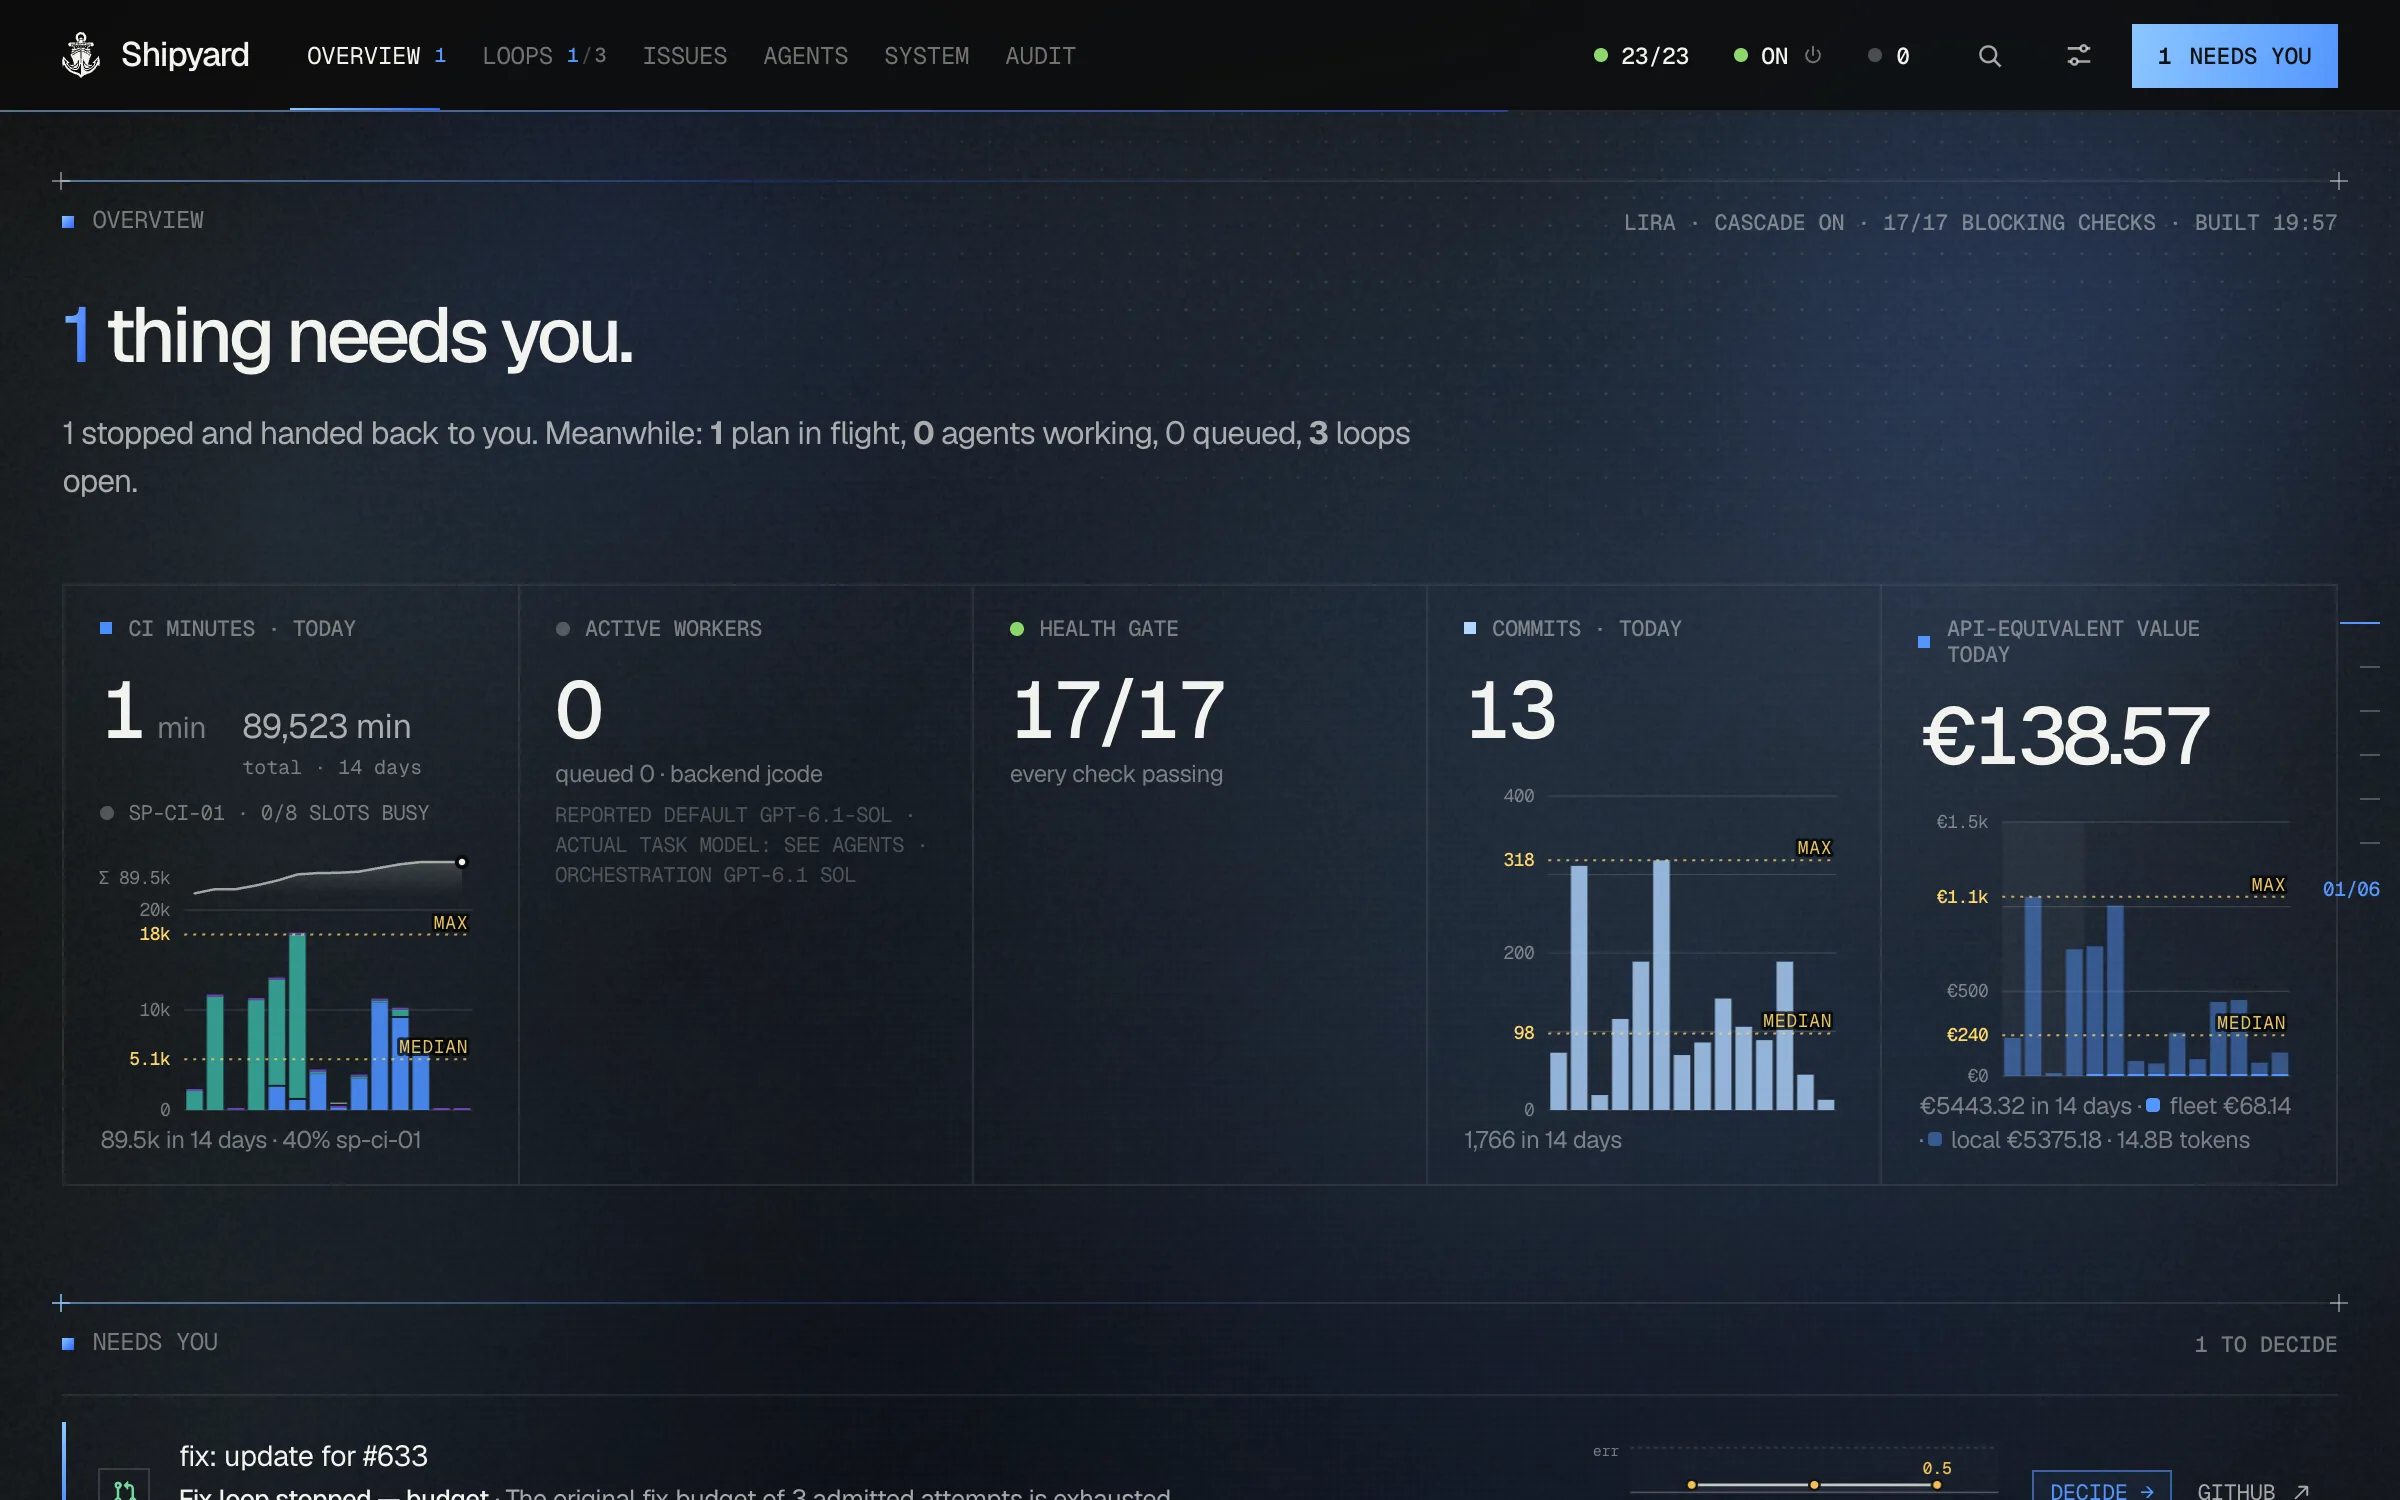
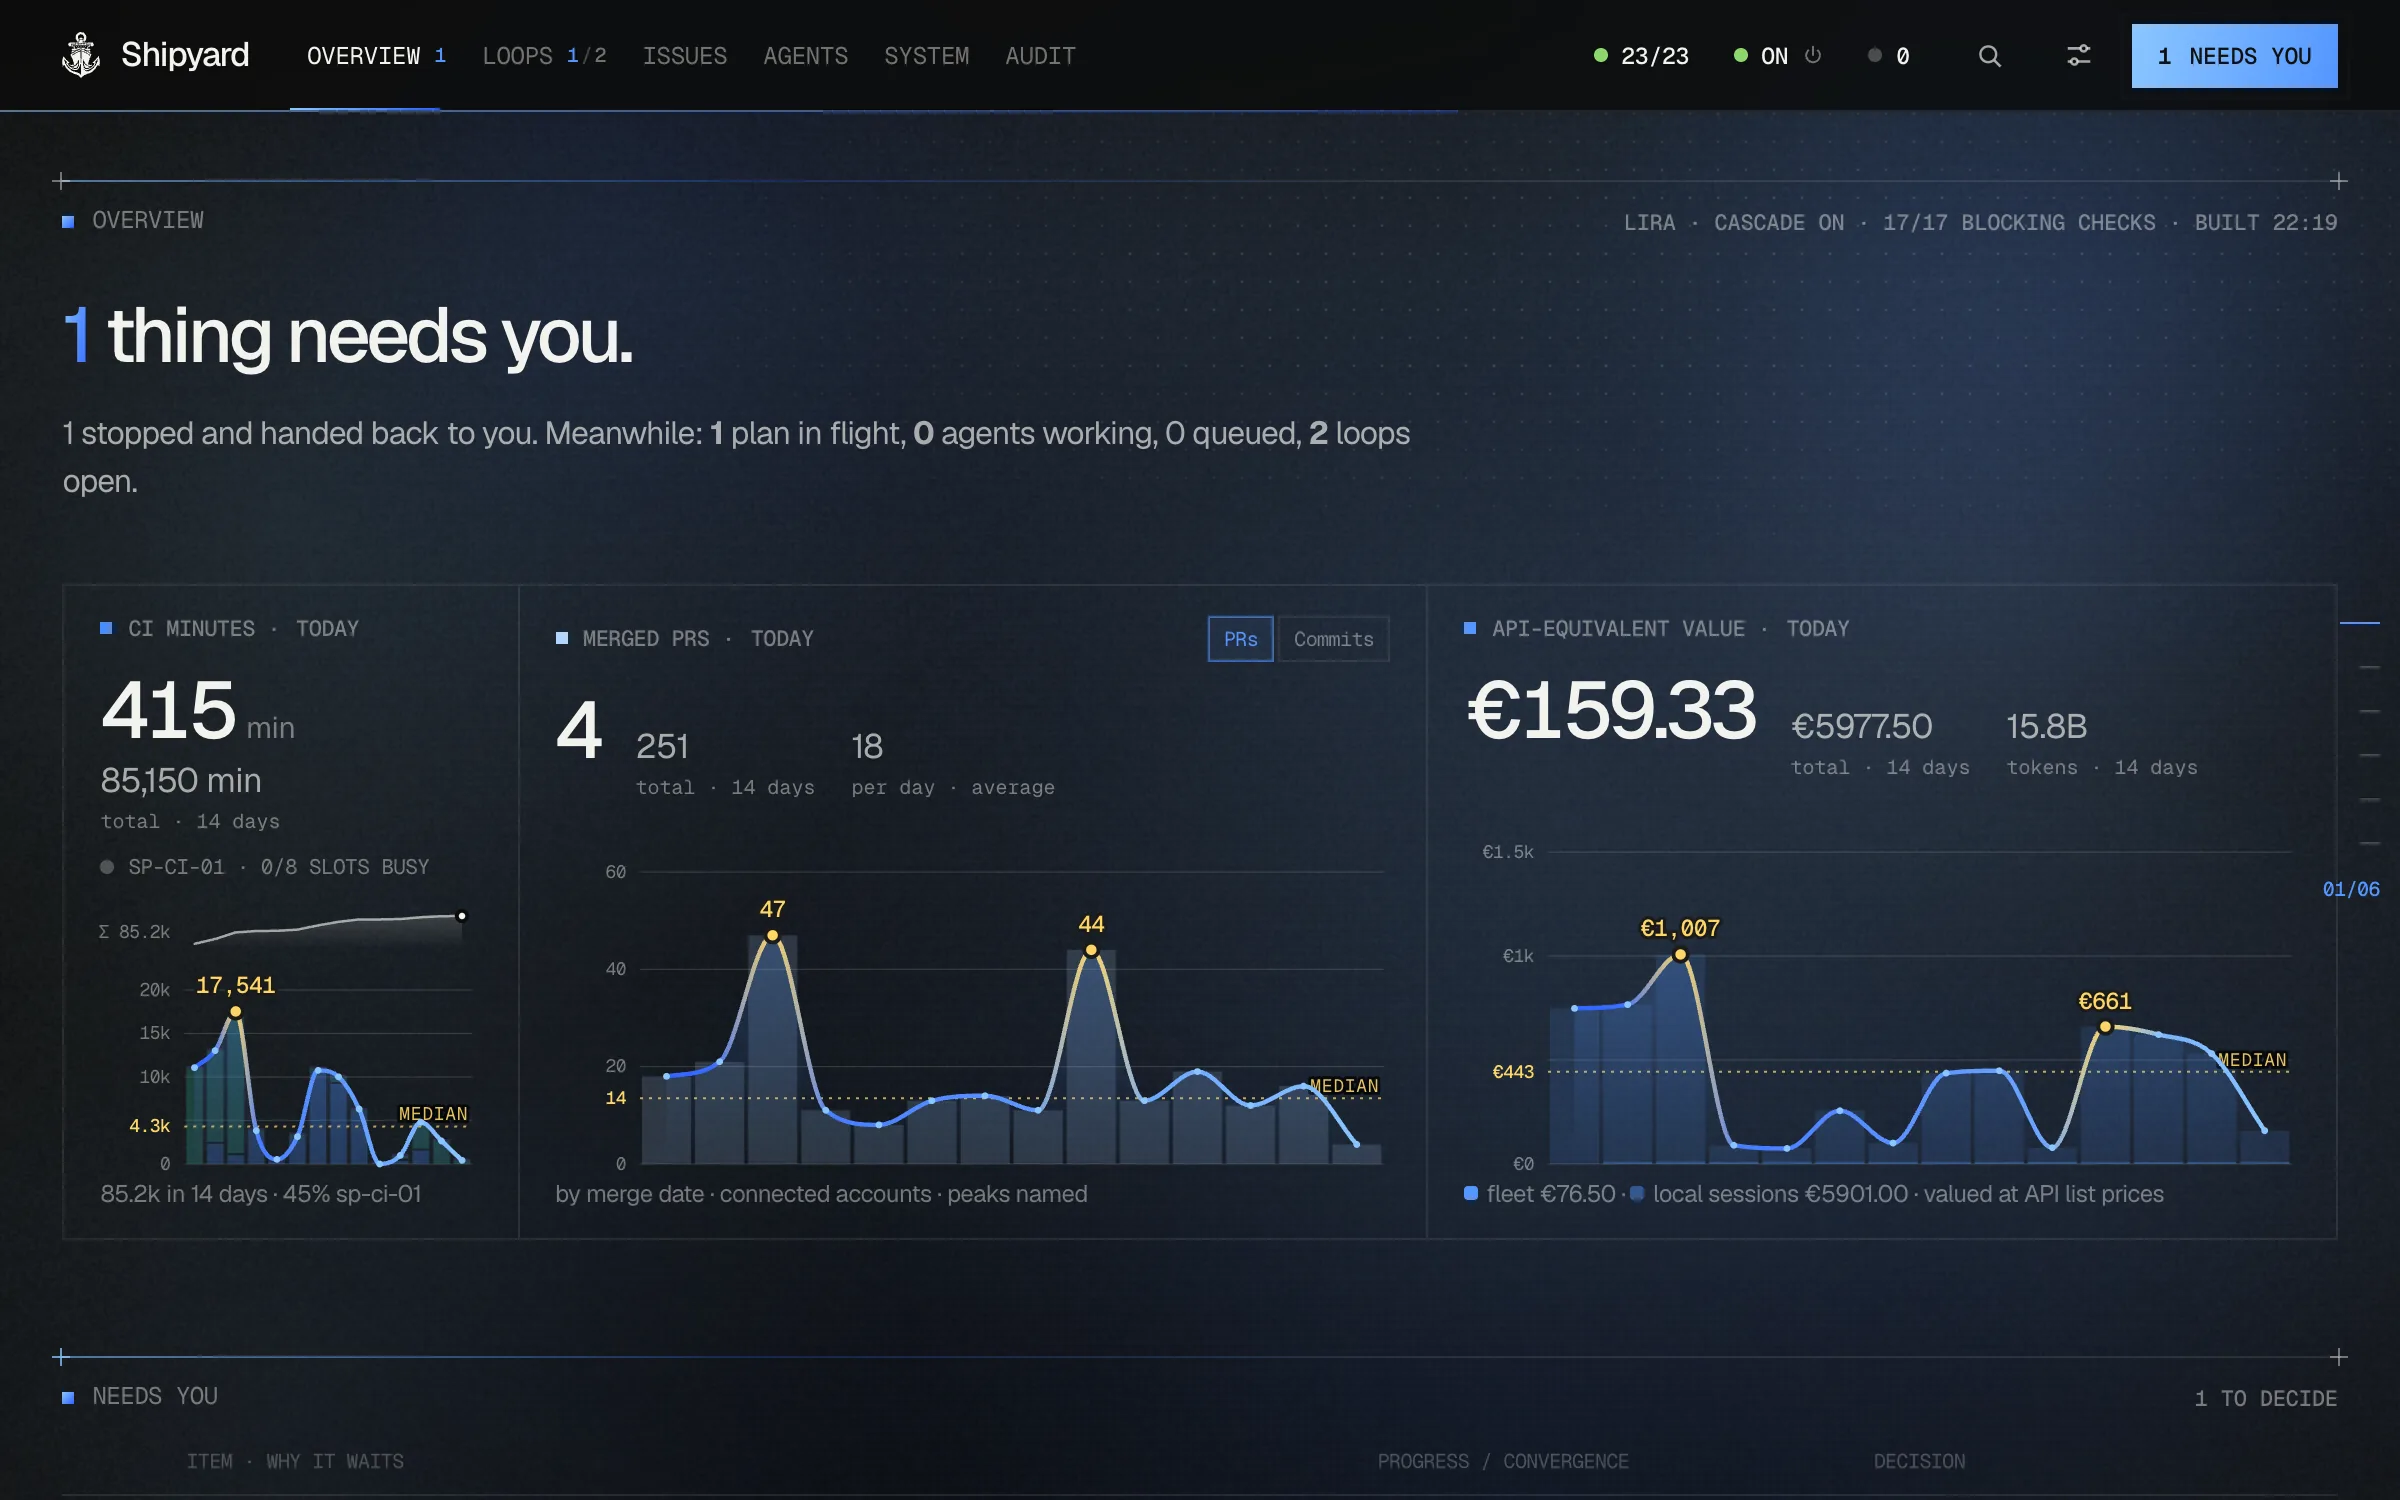
Refresh Shipyard screenshots from today's Mission Control
Captured 2026-10-19 from the live console at 2x through Shipyard's
read-only preview (POSTs refused), filtered to shipyard, marcmantei.com
and myceliums. Adds the cascade, loops and health-gate views; the
flight recorder now shows shipyard#721 converging, and the decision
brief includes its three options. Drops the case-grading shot.

diff --git a/README.md b/README.md
@@ -26,9 +26,13 @@ More than ten years of workflow automation, from Netflix's virtual production st
 
 AI agents write code fast, but unattended output is hard to trust. Shipyard turns an approved plan into merged software: independent AI workers build, review and fix each issue, wave by wave. Every automated decision runs inside a closed control loop with a measured signal, a hard cap and an escalation path to a human. In production since May 2026.
 
-![Shipyard Mission Control overview: "1 thing needs you", with 14-day charts for CI minutes, commits and API-equivalent value](assets/shipyard-overview.webp)
+![Shipyard Mission Control overview: "1 thing needs you", with 14-day curves for CI minutes, merged PRs and API-equivalent value](assets/shipyard-overview.webp)
 
-*Mission Control, live: the fleet in one sentence, only what needs a person on top, and 14 days of CI minutes, commits and API-equivalent value.*
+*Mission Control, live: the fleet in one sentence, only what needs a person on top, and 14 days of CI minutes, merged PRs and API-equivalent value.*
+
+![A cascade in Mission Control: shipyard#735 shipped wave by wave, each wave with its pull request, cost and state](assets/shipyard-cascade.webp)
+
+*A plan becomes waves of issues. A wave ships before the next one starts: two waves merged, the third in the review loop.*
 
 Shipyard opened **267 pull requests** on its own across 10 repositories. **240 were merged**: 75 by its own merge gates, 165 by me. About 90% of the commits in my repositories over the last six months were written by it. Over 1 billion tokens metered, 276 PRs through its AI reviewer (as of 24 Sep 2026).
 
@@ -37,18 +41,23 @@ Shipyard opened **267 pull requests** on its own across 10 repositories. **240 w
 - **81 escalations since July**: when the error stops falling or the round budget runs out, it stops and asks. It raised 78 of them itself
 - **1 plan → 7 merged PRs**: a terrain generator went from one approval to seven merged pull requests for €16.23 of model time at list price
 
-![A loop's flight recorder for shipyard#636: error 2 to 0.5, judge 0.70 to 0.76, confidence 0.18 to 0.49, and the plateau rule that stopped it](assets/shipyard-flight-recorder.webp)
+![The loops view: every open pull request as a control loop, with admitted fixes, verified error, judge score and confidence](assets/shipyard-loops.webp)
 
-*A loop's flight recorder: error fell 75% over three rounds while confidence rose, and it names which of six rules stopped it.*
+*Review ↔ fix, until the error is zero: each card is one pull request's control loop, and the confidence decides between merge, a human, or smaller tickets.*
 
-<p>
-  <img src="assets/shipyard-decision-brief.webp" alt="Decision brief for shipyard#638: the fix loop stopped on budget and waits for a call, with its evidence and trajectory" width="49%" />
-  <img src="assets/shipyard-grading.webp" alt="Finished projects: grade distribution A 16, B 11, C 5, D 1, and where weak cases lose by control-loop component" width="49%" />
-</p>
+![Flight recorder of shipyard#721: verified error 1.5 to 0.5, judge 0.68 to 0.71, confidence 0.17 to 0.45, against the auto-merge band](assets/shipyard-flight-recorder.webp)
 
-*Left: every waiting item opens as a decision, with the situation in one sentence and the evidence behind it. Right: every finished case is graded A to D, and weak cases are traced to the control-loop component that lost them.*
+*A loop's flight recorder: the verified error fell 67% in one fix round while confidence rose 163%, still below the auto-merge band, so it keeps going.*
+
+![Decision brief for shipyard#638: the fix loop stopped on budget, its evidence and trajectory, and three options to decide](assets/shipyard-decision-brief.webp)
+
+*When a loop stops, it opens as a decision: the situation in one sentence, the evidence, and three options with their consequences.*
 
 Six loop families, nested by timescale, so every ring can stop what runs inside it: the eval loop on every AI output, the build loop per issue, the cascade every ten minutes, the hill-climbing engine every six hours. The review budget is earned by the size of the problem (3 to 8 rounds), and loop state lives on the PR itself, so it survives restarts. Guardrails are structural: the worker that builds a PR never reviews it, and no agent merges its own work.
+
+![The machine room: the health gate at 17/17 blocking checks, green, so waves may be released](assets/shipyard-system.webp)
+
+*The health gate: a wave is only released while every blocking check is green.*
 
 [Control loop atlas](https://www.marcmantei.com/shipyard/index.html) · [Loop sheet](https://www.marcmantei.com/shipyard/control-loops.html)
 
